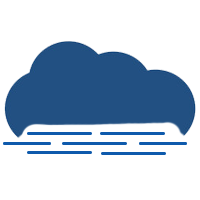
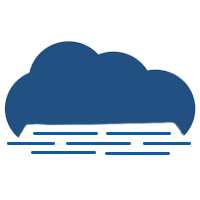
UI changes

diff --git a/function.js b/function.js
@@ -67,7 +67,7 @@ fetch('https://api.openweathermap.org/data/2.5/weather?q='+input.value+'&appid=2
     status.style.display = "block";
   }
   else if(descVal =='overcast clouds'){
-    status.src = "image/haze.png"
+    status.src = "image/overcast.png"
     status.style.display = "block";
   }
   else if(descVal =='mist'){

diff --git a/style.css b/style.css
@@ -67,7 +67,7 @@ input[type="submit"]:hover{
   display: flex;
   flex-direction: column;
   min-height: 100vh;
-  background-image: linear-gradient(to bottom, rgba(0,0,0,0.8), rgba(0,0,0,0.5));
+  background-image: linear-gradient(to bottom, rgba(0,0,0,0.9), rgba(0,0,0,0.6));
 }
 .header{
   color: #fff;
